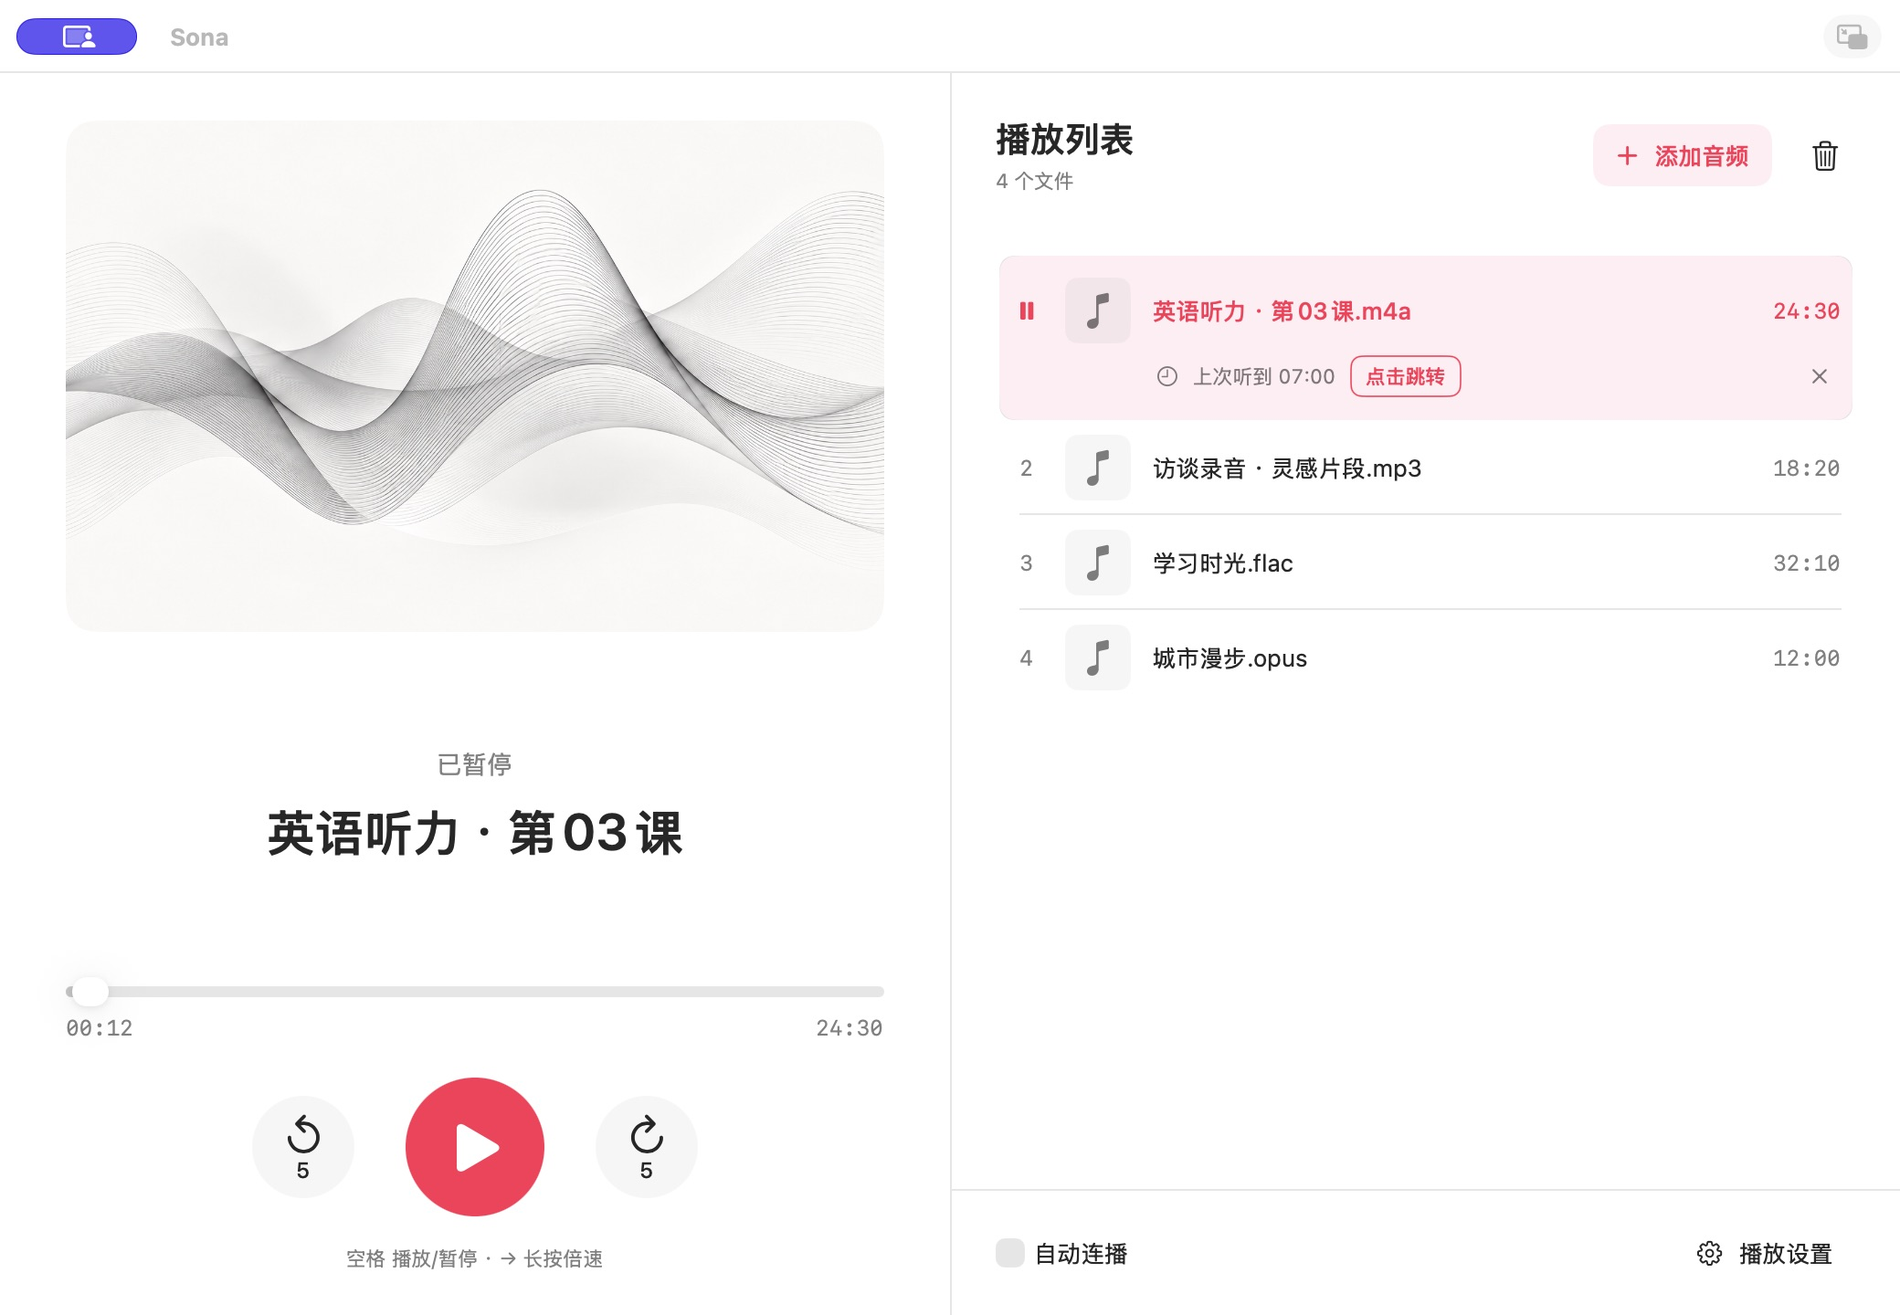
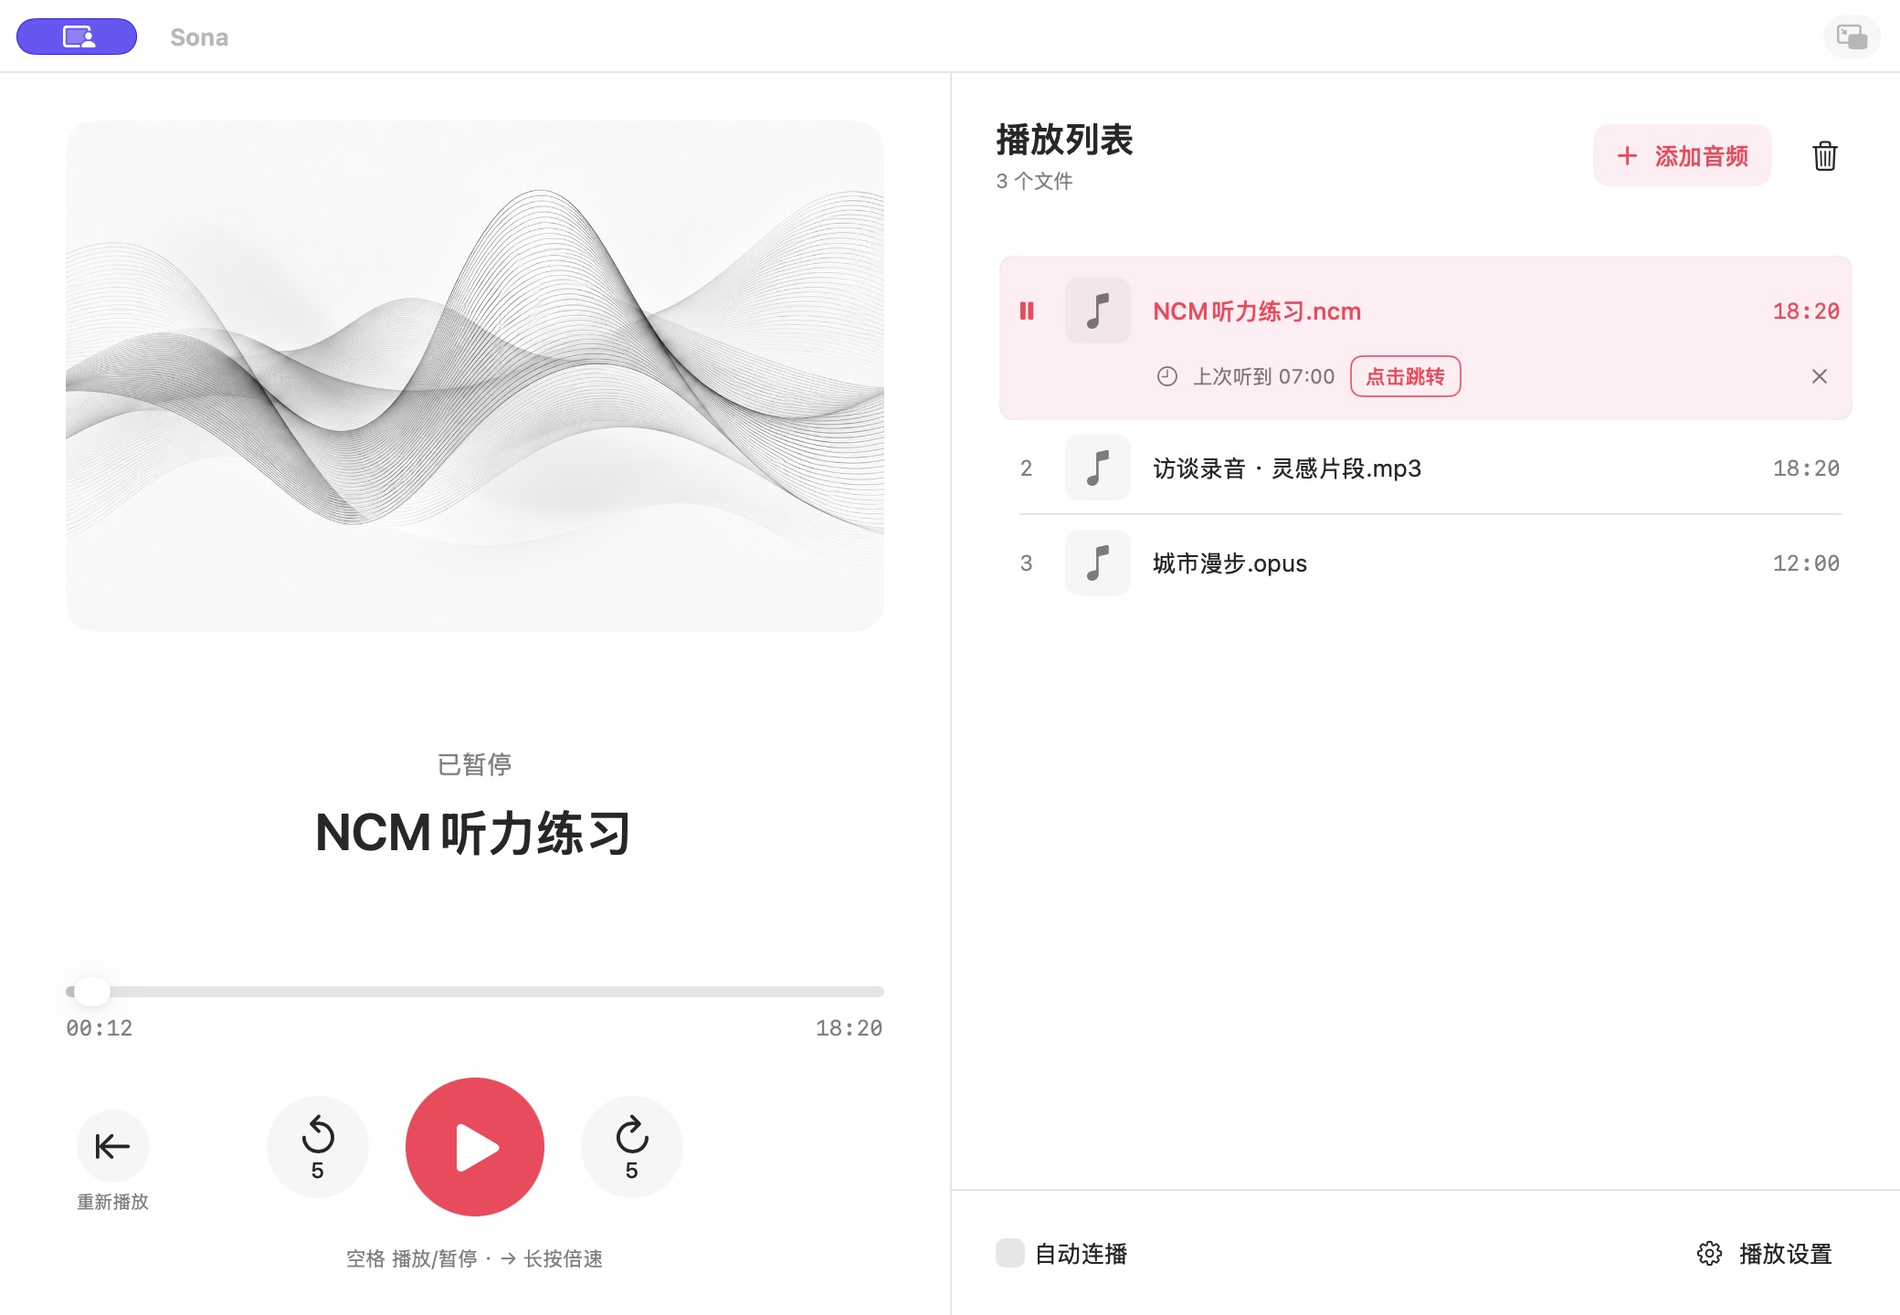
feat: 主界面与小窗支持重新播放 (v1.11.0)

diff --git a/Tests/LocalAudioPlayerTests/PlayerTests.swift b/Tests/LocalAudioPlayerTests/PlayerTests.swift
@@ -431,6 +431,214 @@ final class PlayerTests: CheckSuite {
         expectEqual(try Data(contentsOf: fixture.source), fixture.bytes)
     }
 
+    @MainActor func testRestartNativeStateAndSavedResume() async throws {
+        let store = try sessionStore()
+        let controller = AudioPlayerController(sessionStore: store)
+        defer { controller.shutdown() }
+        await controller.restoreSession()
+        controller.restartPlayback()
+        expectNil(controller.currentID)
+        expectFalse(controller.isPlaying)
+        controller.addFiles([try fixture("01-restart.m4a", seconds: 20), try fixture("02-selected.m4a")])
+        controller.restartPlayback()
+        expectNil(controller.currentID)
+
+        let current = controller.items[0].id
+        let selected = controller.items[1].id
+        expectTrue(controller.load(current, autoplay: false))
+        controller.seek(to: 7)
+        expectTrue(controller.load(selected, autoplay: false))
+        expectTrue(controller.load(current, autoplay: true))
+        expectEqual(controller.pendingResume?.position, 7)
+        controller.holdRate = 1.75
+        controller.beginBoost()
+        expectTrue(controller.isBoosting)
+        controller.selectedID = selected
+        controller.restartPlayback()
+        expectEqual(controller.currentID, current)
+        expectTrue(controller.isPlaying)
+        expectEqual(controller.position, 0, accuracy: 0.1)
+        expectFalse(controller.isBoosting)
+        expectEqual(controller.playbackRate, Float(1))
+        expectNil(controller.pendingResume)
+        expectTrue(try await waitForSession { controller.position > 0.15 })
+
+        controller.togglePlayback()
+        controller.seek(to: 4)
+        controller.restartPlayback()
+        expectTrue(controller.isPlaying)
+        expectEqual(controller.currentID, current)
+        expectEqual(controller.position, 0, accuracy: 0.1)
+        controller.seek(to: controller.duration)
+        expectFalse(controller.isPlaying)
+        controller.autoAdvance = true
+        controller.restartPlayback()
+        expectTrue(controller.isPlaying)
+        expectEqual(controller.currentID, current)
+        expectTrue(try await waitForSession { controller.position > 0.15 })
+        expectLessThan(controller.position, 2)
+        controller.togglePlayback()
+        let restartedPosition = controller.position
+        controller.shutdown()
+
+        let saved = await SessionStore(fileURL: store.fileURL).load()
+        expectNil(saved.session?.pendingResume)
+        expectNil(saved.session?.resumePositions[current])
+        let restored = AudioPlayerController(sessionStore: SessionStore(fileURL: store.fileURL))
+        defer { restored.shutdown() }
+        await restored.restoreSession()
+        expectEqual(restored.currentID, current)
+        expectEqual(restored.position, restartedPosition, accuracy: 0.1)
+        expectFalse(restored.isPlaying)
+        expectNil(restored.pendingResume)
+    }
+
+    @MainActor func testRestartOpusAndNcmPreparedPlayback() async throws {
+        let opus = AudioPlayerController()
+        defer { opus.shutdown() }
+        opus.addFiles([try encodedFixture("01.opus", codec: "libopus"), try fixture("02.m4a")])
+        let first = opus.items[0].id
+        expectTrue(opus.load(first, autoplay: true))
+        opus.autoAdvance = true
+        opus.seek(to: opus.duration - 0.15)
+        opus.restartPlayback()
+        expectEqual(opus.currentID, first)
+        expectTrue(opus.isPlaying)
+        expectEqual(opus.position, 0, accuracy: 0.15)
+        // Wait beyond the previous session's end; it must not advance this restart.
+        expectTrue(try await waitForSession { opus.position > 0.3 })
+        expectEqual(opus.currentID, first)
+        expectLessThan(opus.position, 2)
+        opus.seek(to: opus.duration)
+        opus.restartPlayback()
+        expectTrue(opus.isPlaying)
+        expectEqual(opus.currentID, first)
+        expectEqual(opus.position, 0, accuracy: 0.15)
+
+        let fixture = try ncmFixture("当前.ncm", codec: "flac")
+        let helperDirectory = try ncmDirectory("restart-helper")
+        let release = helperDirectory.appendingPathComponent("release")
+        try Data().write(to: release)
+        let helper = try ncmSlowHelper(in: helperDirectory, release: release)
+        let temporary = try ncmDirectory("restart-prepared")
+        let controller = AudioPlayerController(ncmPreparer: NcmPreparer(toolURL: helper.tool, temporaryRoot: temporary))
+        defer { controller.shutdown() }
+        controller.addFiles([fixture.source])
+        let id = controller.items[0].id
+        expectTrue(controller.load(id, autoplay: false))
+        expectTrue(try await waitForSession { !controller.isPreparingAudio })
+        expectEqual(controller.currentID, id)
+        controller.seek(to: controller.duration)
+        controller.restartPlayback()
+        expectTrue(controller.isPreparingAudio)
+        expectTrue(try await waitForSession { !controller.isPreparingAudio })
+        expectTrue(controller.isPlaying)
+        expectEqual(controller.currentID, id)
+        expectLessThan(controller.position, 1)
+        controller.togglePlayback()
+        controller.seek(to: 5)
+        expectTrue(controller.renameFile(id, to: "改名后的当前音频"))
+        let preparedDirectories = try FileManager.default.contentsOfDirectory(atPath: temporary.path).sorted()
+        expectFalse(preparedDirectories.isEmpty)
+        // A loaded NCM must keep its restored lease: a second helper is unavailable.
+        try FileManager.default.removeItem(at: helper.tool)
+        controller.restartPlayback()
+        expectFalse(controller.isPreparingAudio)
+        expectTrue(controller.isPlaying)
+        expectEqual(controller.currentID, id)
+        expectEqual(controller.position, 0, accuracy: 0.15)
+        expectEqual(controller.currentItem?.name, "改名后的当前音频.ncm")
+        expectEqual(try FileManager.default.contentsOfDirectory(atPath: temporary.path).sorted(), preparedDirectories)
+        expectTrue(try await waitForSession { controller.position > 0.15 })
+        expectNil(controller.errorMessage)
+        expectEqual(try Data(contentsOf: controller.currentItem!.url), fixture.bytes)
+        controller.shutdown()
+        expectTrue(directoryIsEmpty(temporary))
+    }
+
+    @MainActor func testRestartSupersedesPendingImports() async throws {
+        let fixture = try ncmFixture("02-late.ncm", codec: "libmp3lame")
+        let helper = try ncmSlowHelper(in: ncmDirectory("restart-cancel-helper"))
+        let temporary = try ncmDirectory("restart-cancel-output")
+        let controller = AudioPlayerController(ncmPreparer: NcmPreparer(toolURL: helper.tool, temporaryRoot: temporary))
+        defer { controller.shutdown() }
+        controller.addFiles([try self.fixture("01-current.m4a"), fixture.source])
+        let current = controller.items[0].id
+        expectTrue(controller.load(current, autoplay: true))
+        controller.seek(to: 3)
+        let gate = DropProviderGate(url: try self.fixture("03-late-drop.m4a"))
+        expectTrue(controller.receiveDroppedFiles([gate.provider]))
+        expectTrue(try await waitForSession { gate.wasRequested })
+        controller.restartPlayback()
+        expectFalse(controller.fileDrop.isLoading)
+        expectEqual(controller.position, 0, accuracy: 0.1)
+        gate.deliver()
+        expectTrue(try await waitForSession { controller.position > 0.15 })
+        expectEqual(controller.items.count, 2)
+        expectEqual(controller.currentID, current)
+
+        controller.seek(to: 4)
+        expectTrue(controller.load(controller.items[1].id, autoplay: true))
+        expectTrue(try await waitForSession { helperIsRunning(helper.pid) })
+        controller.restartPlayback()
+        expectTrue(try await waitForSession { !controller.isPreparingAudio && !helperIsRunning(helper.pid) })
+        expectEqual(controller.currentID, current)
+        expectTrue(controller.isPlaying)
+        expectLessThan(controller.position, 2)
+        expectTrue(try await waitForSession { directoryIsEmpty(temporary) })
+    }
+
+    @MainActor func testRestartFailureAndStartupGuards() async throws {
+        let source = try fixture("01-restart-missing.m4a")
+        let controller = AudioPlayerController()
+        defer { controller.shutdown() }
+        controller.addFiles([source, try fixture("02.m4a")])
+        let id = controller.items[0].id
+        expectTrue(controller.load(id, autoplay: false))
+        controller.seek(to: 7)
+        expectTrue(controller.load(controller.items[1].id, autoplay: false))
+        expectTrue(controller.load(id, autoplay: true))
+        expectTrue(try await waitForSession { controller.position > 0.15 })
+        controller.togglePlayback()
+        let position = controller.position
+        expectEqual(controller.pendingResume?.position, 7)
+        try FileManager.default.removeItem(at: source)
+        controller.restartPlayback()
+        expectNotNil(controller.errorMessage)
+        expectEqual(controller.currentID, id)
+        expectEqual(controller.position, position, accuracy: 0.05)
+        expectEqual(controller.pendingResume?.position, 7)
+        expectFalse(controller.isPlaying)
+        controller.shutdown()
+        controller.restartPlayback()
+        expectNil(controller.currentID)
+        expectFalse(controller.isPlaying)
+
+        let fixture = try ncmFixture("恢复中的音频.ncm", codec: "flac")
+        let helperDirectory = try ncmDirectory("restart-restore-helper")
+        let release = helperDirectory.appendingPathComponent("release")
+        let helper = try ncmSlowHelper(in: helperDirectory, release: release)
+        let store = try sessionStore()
+        let item = PlaylistItem(url: fixture.source)
+        let saved = SavedSession(items: [item], selectedID: item.id, currentID: item.id,
+            position: 6, duration: 12, autoAdvance: false, forwardSeconds: 5, backwardSeconds: 5, holdRate: 2)
+        expectNil(store.flush(saved))
+        let restoring = AudioPlayerController(sessionStore: store,
+            ncmPreparer: NcmPreparer(toolURL: helper.tool, temporaryRoot: try ncmDirectory("restart-restore-output")))
+        defer { restoring.shutdown() }
+        let restoration = Task { await restoring.restoreSession() }
+        expectTrue(try await waitForSession { restoring.isRestoring && helperIsRunning(helper.pid) })
+        restoring.restartPlayback()
+        expectTrue(restoring.isPreparingAudio)
+        expectTrue(helperIsRunning(helper.pid))
+        try Data().write(to: release)
+        await restoration.value
+        expectFalse(restoring.isRestoring)
+        expectFalse(restoring.isPlaying)
+        expectEqual(restoring.position, 6, accuracy: 0.05)
+        expectEqual(restoring.currentID, item.id)
+    }
+
     private func encodedFixture(_ name: String, codec: String, seconds: Double = 8,
                                 options: [String] = []) throws -> URL {
         let directory = FileManager.default.temporaryDirectory.appendingPathComponent("MiniAudioFormats-\(UUID())")

diff --git a/Sources/LocalAudioPlayer/AudioPlayerController.swift b/Sources/LocalAudioPlayer/AudioPlayerController.swift
@@ -555,6 +555,7 @@ final class AudioPlayerController: NSObject, ObservableObject, AVAudioPlayerDele
     }
 
     private func commitLoad(_ item: PlaylistItem, playbackURL: URL, prepared: NcmPreparedAudio? = nil,
+                            reusingPreparedAudio: Bool = false,
                             autoplay: Bool, reason: LoadReason, resumeAt: TimeInterval?) -> Bool {
         let id = item.id
         do {
@@ -579,7 +580,8 @@ final class AudioPlayerController: NSObject, ObservableObject, AVAudioPlayerDele
             var initialPosition = PlaybackRules.position(resumeAt ?? 0, duration: candidate.duration)
             if autoplay && initialPosition >= candidate.duration { initialPosition = 0 }
             if initialPosition > 0 { candidate.currentTime = initialPosition }
-            try prepared?.validateSource(item.url)
+            // An already-open NCM keeps playing its leased bytes after a source rename.
+            if !reusingPreparedAudio { try prepared?.validateSource(item.url) }
             endBoost()
             let previous = player
             previous?.pause()
@@ -590,8 +592,9 @@ final class AudioPlayerController: NSObject, ObservableObject, AVAudioPlayerDele
             }
             let startsVisit = reason == .switching && currentID != id
             if startsVisit { archiveCurrentPosition(at: previousPosition) }
-            let stamp = prepared.map { FileStamp(size: $0.sourceSize, modificationTime: $0.sourceModificationTime) }
-                ?? fileStamp(for: item.url)
+            let stamp = reusingPreparedAudio ? currentFileStamp :
+                (prepared.map { FileStamp(size: $0.sourceSize, modificationTime: $0.sourceModificationTime) }
+                 ?? fileStamp(for: item.url))
             let saved = resumePositions[id].flatMap { isValidResume($0, duration: candidate.duration, stamp: stamp) ? $0 : nil }
             if saved == nil { resumePositions[id] = nil }
             if startsVisit {
@@ -633,6 +636,30 @@ final class AudioPlayerController: NSObject, ObservableObject, AVAudioPlayerDele
         guard !isRestoring else { return }
         cancelAudioPreparation()
         if currentID == id { resumeCurrent() } else { load(id, autoplay: true) }
+    }
+
+    func restartPlayback() {
+        guard !isRestoring, !isShuttingDown, currentID != nil else { return }
+        fileDrop.cancel()
+        cancelAudioPreparation()
+        // Cancelling a pending relocation may restore the previous source URL.
+        guard let item = currentItem else { return }
+        endBoost()
+        let completed: (Bool) -> Void = { [weak self] succeeded in
+            guard succeeded, let self, self.currentID == item.id else { return }
+            self.pendingResume = nil
+            self.resumePositions[item.id] = nil
+            self.scheduleSave()
+            self.logger.info("[playback.restart] item=\(item.id.uuidString, privacy: .public)")
+        }
+        if let preparedAudio, player != nil {
+            // A new player identity rejects delayed finish events without unpacking NCM again.
+            completed(commitLoad(item, playbackURL: preparedAudio.url, prepared: preparedAudio,
+                                 reusingPreparedAudio: true, autoplay: true,
+                                 reason: .reloading, resumeAt: 0))
+        } else {
+            _ = load(item.id, autoplay: true, reason: .reloading, resumeAt: 0, onCompletion: completed)
+        }
     }
 
     func togglePlayback() {

diff --git a/Sources/LocalAudioPlayer/PlayerView.swift b/Sources/LocalAudioPlayer/PlayerView.swift
@@ -240,7 +240,7 @@ struct PlayerView: View {
             .foregroundStyle(PlayerStyle.muted)
             .padding(.top, 4)
 
-            HStack(spacing: 28) {
+            HStack(spacing: 20) {
                 seekButton(backward: true)
                 Button { controller.togglePlayback() } label: {
                     Image(systemName: controller.isPlaying ? "pause.fill" : "play.fill")
@@ -255,6 +255,31 @@ struct PlayerView: View {
                 .disabled(!controller.canPlay)
                 .opacity(controller.canPlay ? 1 : 0.45)
                 seekButton(backward: false)
+            }
+            .frame(maxWidth: .infinity)
+            .overlay(alignment: .leading) {
+                Button {
+                    keyboard.cancelPress()
+                    controller.restartPlayback()
+                } label: {
+                    VStack(spacing: 4) {
+                        Image(systemName: "arrow.backward.to.line")
+                            .font(.system(size: 18, weight: .medium))
+                            .frame(width: 40, height: 40)
+                            .background(Color(nsColor: .quaternaryLabelColor).opacity(0.35), in: Circle())
+                        Text("重新播放")
+                            .font(.system(size: 10))
+                            .foregroundStyle(PlayerStyle.muted)
+                    }
+                    .padding(.top, 16)
+                    .frame(width: 52, height: 76)
+                    .contentShape(Rectangle())
+                }
+                .buttonStyle(.plain)
+                .disabled(controller.currentID == nil)
+                .opacity(controller.currentID == nil ? 0.45 : 1)
+                .accessibilityLabel("重新播放")
+                .help("从头播放当前音频")
             }
             .padding(.top, 20)
             Text("空格 播放/暂停 · → 长按倍速")

diff --git a/Tests/LocalAudioPlayerTests/CheckRunner.swift b/Tests/LocalAudioPlayerTests/CheckRunner.swift
@@ -46,6 +46,10 @@ struct CheckRunner {
     @MainActor static func main() async {
         let suite = PlayerTests()
         let tests: [(String, @MainActor () async throws -> Void)] = [
+            ("重播当前音频、暂停/结尾恢复、清除续听及保存新位置", suite.testRestartNativeStateAndSavedResume),
+            ("Opus 重播不误连播、已改名 NCM 复用还原文件", suite.testRestartOpusAndNcmPreparedPlayback),
+            ("重播取消迟到拖入与 NCM 准备，保持当前曲目", suite.testRestartSupersedesPendingImports),
+            ("重播失败保留旧位置和提示，启动恢复期间不抢播", suite.testRestartFailureAndStartupGuards),
             ("NCM 0/1 标记的 MP3/FLAC 按字节还原、警告及临时租约清理", suite.testNcmPreparationBytesWarningsAndLeaseCleanup),
             ("NCM CRC 损坏、截断及无效音频拒绝且保留原文件", suite.testNcmRejectsCorruptTruncatedAndInvalidAudio),
             ("NCM 实际播放、跳转、长按倍速与自然结束连播", suite.testNcmPlaybackSeekHoldAndNaturalCompletion),

diff --git a/Sources/LocalAudioPlayer/MiniPlayerView.swift b/Sources/LocalAudioPlayer/MiniPlayerView.swift
@@ -141,6 +141,21 @@ struct MiniPlayerView: View {
 
     private var transport: some View {
         HStack(spacing: 10) {
+            Button {
+                keyboard.cancelPress()
+                controller.restartPlayback()
+            } label: {
+                Image(systemName: "arrow.backward.to.line")
+                    .font(.system(size: 13, weight: .medium))
+                    .frame(width: 28, height: 28)
+                    .background(Color(nsColor: .quaternaryLabelColor).opacity(0.35), in: Circle())
+                    .contentShape(Circle())
+            }
+            .buttonStyle(.plain)
+            .disabled(controller.currentID == nil)
+            .opacity(controller.currentID == nil ? 0.45 : 1)
+            .accessibilityLabel("重新播放")
+            .help("重新播放：从头播放当前音频")
             seekButton(backward: true)
             Button {
                 keyboard.cancelPress()
